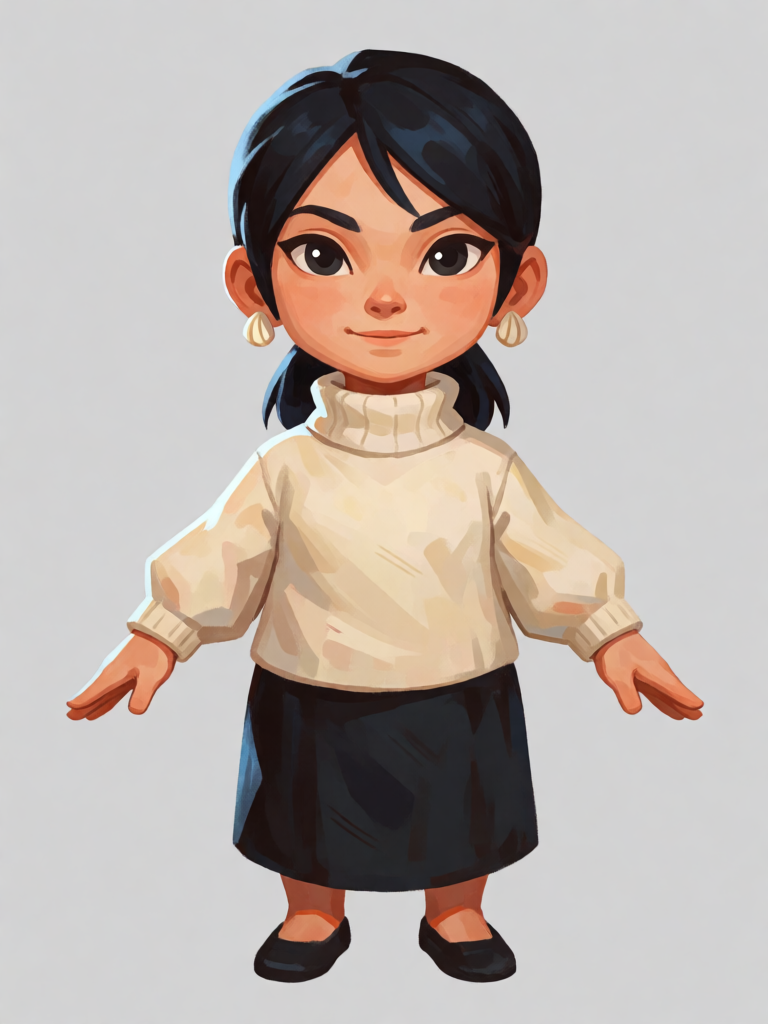
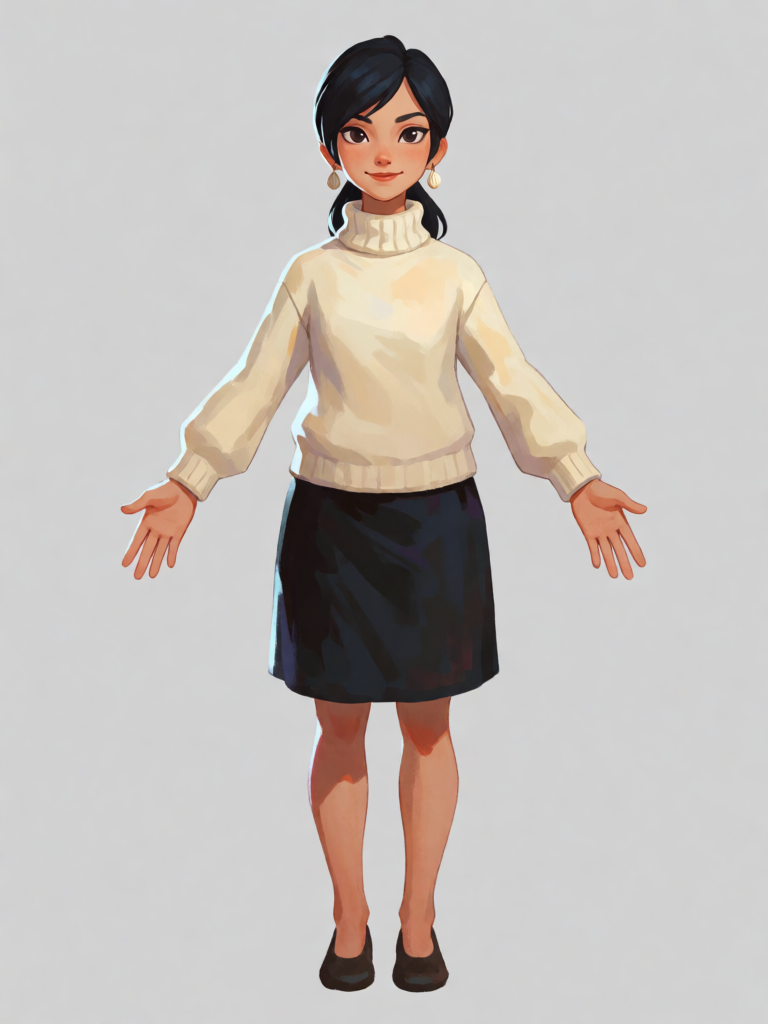
world2: A포즈 — 네이라 · 실바 · 마르그 머리 줄임

diff --git a/game-card-world2/tools/make_apose.py b/game-card-world2/tools/make_apose.py
@@ -45,6 +45,10 @@ POSE = ("character reference sheet, one single character alone, full body from h
         "plain flat light grey studio background, even soft lighting")
 BODY = ("drawn with stylized deformed proportions: a large expressive head about one fifth of the body height, "
         "compact sturdy body, small hands and feet")
+# 머리가 너무 크게 나온 사람 — 어른 몸 비율에 가깝게 (2026-11-06: 네이라 · 실바 · 마르그)
+BODY_SMALL_HEAD = ("drawn with slightly stylized but adult proportions: a modest head about one sixth of the body height, "
+                   "a slim adult body with long legs, normal-sized hands and feet")
+SMALL_HEAD = {"trinketsmith", "herbalist", "armorsmith"}
 
 
 def main():
@@ -61,7 +65,7 @@ def main():
         dest = REF_DIR / f"apose_{cid}.png"
         if dest.exists() and not (a.all or a.only):
             continue
-        text = f"{POSE}. The character: {desc}. {BODY}. {STYLE}. {NOT}."
+        text = f"{POSE}. The character: {desc}. {BODY_SMALL_HEAD if cid in SMALL_HEAD else BODY}. {STYLE}. {NOT}."
         seed = a.seed if a.seed is not None else random.randint(0, 2**31)
         out = run_workflow(a.url, graph(text, seed, 768, 1024, f"apose_{cid}"))
         im = Image.open(BytesIO(fetch_image(a.url, out["save"]["images"][0]))).convert("RGB")

diff --git a/game-card-world2/docs/기능.md b/game-card-world2/docs/기능.md
@@ -5202,3 +5202,5 @@
 - [x] 사람 11명(가렛 · 세리나 · 보른 · 오르반 · 두르간 · 올가 · 헤이든 · 마르그 · 토른 · 네이라 · 실바)의 **정면 A포즈 전신 단독 그림** — 나중에 KREA2 Turbo identity edit 의 기준 그림으로 쓴다. `tools/make_apose.py` (KREA2 · 집 결 · 맨손 · 밝은 회색 민무늬 배경 · seed 4242) → `images/ref/apose_<id>.png` 768×1024 (줄이지 않음). 게임에는 아직 안 씀
   - 판단: 크리처 25는 뺌 (A포즈가 맞지 않음 — 원하면 정면 서기로 따로). 손에 든 것(망치 · 프라이팬 · 활 · 방패 …)과 등에 멘 것은 뺐다 — 두 손이 비어야 A포즈. 옷 색 · 머리 · 수염은 지금 게임 초상화(portrait_<id>)를 보고 맞춤. 가렛은 칼 없이
   - 확인: 11장 모두 한 사람 · 정면 · 두 팔 내림 · 전신 · 회색 배경 (모아서 봄)
+- [x] 네이라 · 실바 · 마르그 A포즈 다시 (사용자 지적: 머리가 너무 큼) — 이 셋만 어른 몸 비율 문구(머리 = 키의 1/6 · 날씬한 어른 몸 · 긴 다리)로 (`SMALL_HEAD`). 나머지 여덟은 그대로
+  - 확인: 셋 다 머리가 작아지고 몸이 길어짐 · 정면 A포즈 · 맨손 (모아서 봄)
